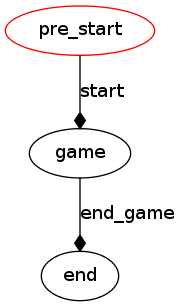
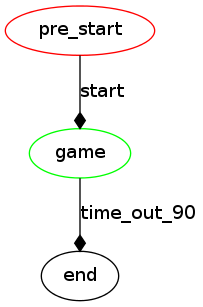
mae global and game

Changed region(s): [[0.0, 0.0, 0.9722, 0.9967], [0.7778, 0.0586, 0.8611, 0.1466], [0.6111, 0.8502, 0.6667, 0.9381]]

diff --git a/pi/mae_generator/mae.py b/pi/mae_generator/mae.py
@@ -23,23 +23,21 @@ class State():
 
 
 class InitState(State):
-    def __init__(self):
-        State.__init__(self)
-        self.name = "init"
+    def __init__(self, name="init"):
+        State.__init__(self, name)
 
 
 class OutState(State):
-    def __init__(self):
-        State.__init__(self)
-        self.name = "out"
+    def __init__(self, name="out"):
+        State.__init__(self, name)
 
 
 class MAE():
-    def __init__(self, state_list=[InitState()], verbose=False):
+    def __init__(self, state_list=[InitState()], verbose=True):
         self.state_list = state_list
         self.verbose = verbose
         self.reinit_state()
-        self.transitions_to_be_done = []
+        self.transitions_to_be_done = [""]
 
     def reinit_state(self, state=None):
         if state is None:
@@ -49,54 +47,89 @@ class MAE():
         if self.verbose:
             print self.current_state
 
+    def go_to(self, new_state):
+        """ check if new_state is not None and go there """
+        if new_state is not None:
+            if self.verbose:
+                print "transition from {} to {}".format(self.current_state.name, new_state.name)
+            self.current_state.out_code()
+            self.current_state = new_state
+            self.current_state.in_code()
+
     def run(self):
         self.current_state.while_code()
+        # for special out transition for MAEState
+        if isinstance(self.current_state, MAEState) and self.current_state.mae.is_over():
+            new_state = self.current_state.out_transitions.get(self.current_state.mae.current_state, None)
+            self.go_to(new_state)
         for t in self.transitions_to_be_done:
             new_state = self.current_state.transitions.get(t, None)
-            if new_state is not None:
-                if self.verbose:
-                    print "transition from {} to {}".format(self.current_state.name, new_state.name)
-                self.current_state.out_code()
-                self.current_state = new_state
-                self.current_state.in_code()
-            else:
-                print "no such transition"
-        self.transitions_to_be_done = []
+            self.go_to(new_state)
+            if new_state is None and self.verbose:
+                print "no transition {} in state {}".format(t, self.current_state)
+
+        self.transitions_to_be_done = [""]
 
     def trigger(self, transition):
-        if self.current_state.__class__.__name__ == 'MAEState':
+        """ the transition "" is the direct transition """
+        if isinstance(self.current_state, MAEState):
             self.current_state.trigger(transition)
+            if self.current_state.mae.is_over():
+                self.transitions_to_be_done.append("out")
         """ trigger the transition to change state """
         self.transitions_to_be_done.append(transition)
 
     def draw(self, file='mae_render.png'):
         """ draw the mae for debugging purposes """
         graph = pgv.AGraph(directed=True)
-        graph.add_node(self.state_list[0].name, color='red')
         for state in self.state_list:
             for t, s2 in state.transitions.iteritems():
                 graph.add_edge(state.__str__(), s2.__str__(), label=t, arrowhead='diamond')
+            if isinstance(state, MAEState):
+                for out_state, next_state in state.out_transitions.iteritems():
+                    graph.add_edge(state, next_state, label="from_{}".format(out_state), arrowhead="diamond", color="green")
+        for i, state in enumerate(self.state_list):
+            if i == 0:
+                init_node = graph.get_node(state.__str__())
+                init_node.attr['color'] = 'red'
+            if isinstance(state, MAEState):
+                node = graph.get_node(state.__str__())
+                node.attr['color'] = 'green'
+
+            graph.add_node(self.state_list[0].__str__(), color='red')
+
         graph.layout(prog='dot')
         graph.draw(file)
+
+    def is_over(self):
+        return isinstance(self.current, OutState)
 
 
 class MAEState(State):
     """ State with a MAE inside """
     def __init__(self, mae, name="name of MAE STate"):
+        State.__init__(self, name)
         self.mae = mae
         self.name = name
         self.verbose = False
+        self.out_transitions = {}
 
     def in_code(self):
         self.mae.current_state = self.mae.reinit_state()
 
     def while_code(self):
         self.mae.run(self.verbose)
-        if self.mae.current_state.name == "out":
-            self.trigger("out")
 
     def trigger(self, transition):
         self.mae.trigger(transition)
+
+    def add_out_transition(self, out_state_name, next_state):
+        """ add a direct transition from the out_state """
+        for state in self.mae:
+            if isinstance(state, OutState) and state.name == out_state_name:
+                self.out_transition[out_state_name] = next_state
+            else:
+                raise NotImplementedError("no state named {}".format(out_state_name))
 
 
 def debugger(mae):

diff --git a/pi/mae_generator/mae_global.py b/pi/mae_generator/mae_global.py
@@ -1,17 +1,69 @@
-from mae import MAE, State, debugger
+from mae import MAE, MAEState, InitState, OutState, State, debugger
 
 
 class MAEGlobal(MAE):
     def __init__(self):
-        MAE.__init__(self, [State()], True)
+        MAE.__init__(self)
         pre_start = State("pre_start")
-        game = State("game")
+        game = MAEState(MAEGame(), "game")
         end = State("end")
         self.state_list = [pre_start, game, end]
         pre_start.transitions["start"] = game
-        game.transitions["end_game"] = end 
+        game.transitions["time_out_90"] = end 
         self.reinit_state()
 
+
+class MAEGame(MAE):
+    def __init__(self):
+        MAE.__init__(self)
+        #state
+        rush = MAEState(MAERush(), "rush")
+        choix_mission = State("choix_mission")
+        deplacement_mission = MAEState(MAEDepMission(), "deplacement_mission")
+        evitement = MAEState(MAEEvitement(), "evitement")
+        mission = MAEState(MAEMission(), "mission")
+        #transitions
+        rush.add_out_transition("end_rush", choix_mission)
+        choix_mission.transitions[""] = deplacement_mission
+        deplacement_mission.add_out_transition("end_deplacement", mission)
+        mission.add_out_transition("end_mission", choix_mission)
+        mission.add_out_transition("evitement", evitement)
+        evitement.add_out_transition("end_evitement", deplacement_mission)
+
+        self.state_list = [
+            rush, choix_mission, deplacement_mission, evitement, mission]
+        self.reinit_state()
+
+
+class MAERush(MAE):
+    def __init__(self):
+        MAE.__init__(self)
+        self.state_list = [OutState("end_rush")]
+        self.reinit_state()
+
+
+class MAEEvitement(MAE):
+    def __init__(self):
+        MAE.__init__(self)
+        self.state_list = [OutState("end_evitement")]
+        self.reinit_state()
+
+
+class MAEDepMission(MAE):
+    def __init__(self):
+        MAE.__init__(self)
+        self.state_list = [OutState("end_deplacement")]
+        self.reinit_state()
+
+
+class MAEMission(MAE):
+    def __init__(self):
+        MAE.__init__(self)
+        self.state_list = [InitState("init"), OutState("end_mission"), OutState("evitement")]
+        self.reinit_state()
+
+
 if __name__ == "__main__":
-    mae = MAEGlobal()
+    mae = MAEGame()
+    #mae = MAEGlobal()
     debugger(mae)
